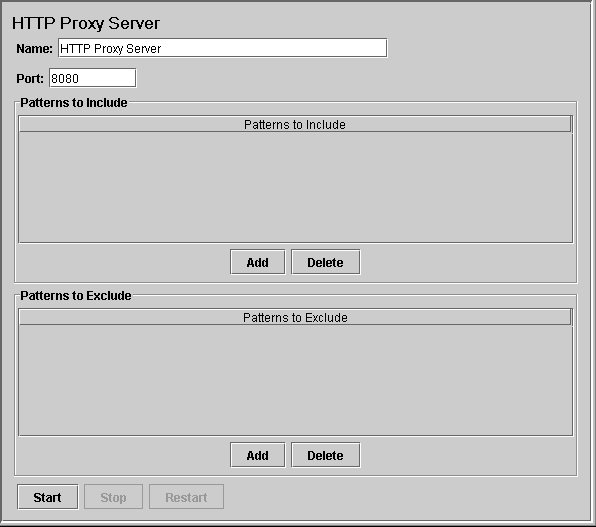
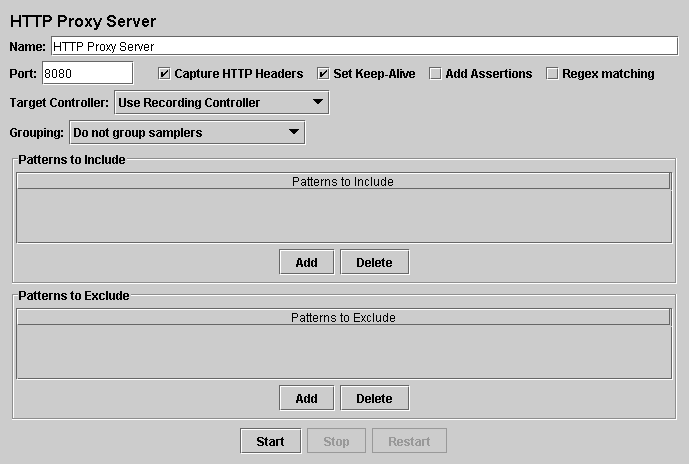
Bug 35026 - add RE pattern matching to Proxy; prevent replacement of TestElement.gui_class etc
git-svn-id: https://svn.apache.org/repos/asf/jakarta/jmeter/trunk@325404 13f79535-47bb-0310-9956-ffa450edef68

Changed region(s): [[0.0, 0.0, 1.0, 1.0]]

diff --git a/src/core/org/apache/jmeter/engine/util/ReplaceFunctionsWithStrings.java b/src/core/org/apache/jmeter/engine/util/ReplaceFunctionsWithStrings.java
@@ -1,6 +1,6 @@
 // $Header$
 /*
- * Copyright 2003-2004 The Apache Software Foundation.
+ * Copyright 2003-2005 The Apache Software Foundation.
  *
  * Licensed under the Apache License, Version 2.0 (the "License");
  * you may not use this file except in compliance with the License.
@@ -28,21 +28,46 @@ import org.apache.jmeter.functions.InvalidVariableException;
 import org.apache.jmeter.testelement.property.JMeterProperty;
 import org.apache.jmeter.testelement.property.StringProperty;
 import org.apache.jmeter.util.StringUtilities;
+import org.apache.jorphan.logging.LoggingManager;
+import org.apache.log.Logger;
+import org.apache.oro.text.regex.MalformedPatternException;
+import org.apache.oro.text.regex.Pattern;
+import org.apache.oro.text.regex.PatternCompiler;
+import org.apache.oro.text.regex.PatternMatcher;
+import org.apache.oro.text.regex.Perl5Compiler;
+import org.apache.oro.text.regex.Perl5Matcher;
+import org.apache.oro.text.regex.StringSubstitution;
+import org.apache.oro.text.regex.Util;
 
 /**
- * @author ano ano
+ * Transforms strings into variable references
+ * (in spite of the name, which suggests the opposite!)
+ * 
  * @version $Revision$
  */
 public class ReplaceFunctionsWithStrings extends AbstractTransformer
 {
+    private static final Logger log = LoggingManager.getLoggerForClass();
+    
+    private boolean regexMatch;// Should we match using regexes?
+    
     public ReplaceFunctionsWithStrings(
         CompoundVariable masterFunction,
         Map variables)
     {
-        super();
-        setMasterFunction(masterFunction);
-        setVariables(variables);
+        this(masterFunction,variables,false);
     }
+
+    public ReplaceFunctionsWithStrings(
+            CompoundVariable masterFunction,
+            Map variables,
+            boolean regexMatch)
+        {
+            super();
+            setMasterFunction(masterFunction);
+            setVariables(variables);
+            this.regexMatch=regexMatch;
+        }
 
     /* (non-Javadoc)
      * @see ValueTransformer#transformValue(JMeterProperty)
@@ -50,13 +75,30 @@ public class ReplaceFunctionsWithStrings extends AbstractTransformer
     public JMeterProperty transformValue(JMeterProperty prop)
         throws InvalidVariableException
     {
+        PatternMatcher pm = new Perl5Matcher();
+        Pattern pattern = null;
+        PatternCompiler compiler = new Perl5Compiler();
         Iterator iter = getVariables().keySet().iterator();
         String input = prop.getStringValue();
         while (iter.hasNext())
         {
             String key = (String) iter.next();
             String value = (String) getVariables().get(key);
-            input = StringUtilities.substitute(input, value, "${" + key + "}");
+            if (regexMatch) {
+                try {
+                    pattern = compiler.compile(value);
+                    input=Util.substitute(
+                            pm,
+                            pattern,
+                            new StringSubstitution("${"+key+"}"),
+                            input,
+                            Util.SUBSTITUTE_ALL);
+                } catch (MalformedPatternException e) {
+                    log.warn("Malformed pattern "+value);
+                }
+            } else {
+                input = StringUtilities.substitute(input, value, "${" + key + "}");                
+            }
         }
         StringProperty newProp =  new StringProperty(prop.getName(), input);
         return newProp;

diff --git a/src/protocol/http/org/apache/jmeter/protocol/http/proxy/gui/ProxyControlGui.java b/src/protocol/http/org/apache/jmeter/protocol/http/proxy/gui/ProxyControlGui.java
@@ -103,6 +103,11 @@ public class ProxyControlGui
 	 */
 	private JCheckBox useKeepAlive;
 
+    /*
+     * Use regexes to match the source data
+     */
+    private JCheckBox regexMatch;
+    
     /**
      * List of available target controllers
      */
@@ -169,6 +174,7 @@ public class ProxyControlGui
 			model.setGroupingMode(groupingMode.getSelectedIndex());
 			model.setAssertions(addAssertions.isSelected());
 			model.setUseKeepAlive(useKeepAlive.isSelected());
+            model.setRegexMatch(regexMatch.isSelected());
             TreeNodeWrapper nw= (TreeNodeWrapper)targetNodes.getSelectedItem();
             if (nw == null)
             {
@@ -219,13 +225,14 @@ public class ProxyControlGui
         log.debug("Configuring gui with " + element);
         super.configure(element);
         model = (ProxyControl)element;
-        portField.setText(model.getPropertyAsString(ProxyControl.PORT));
-		httpHeaders.setSelected(model.getPropertyAsBoolean(ProxyControl.CAPTURE_HTTP_HEADERS));
-		groupingMode.setSelectedIndex(model.getPropertyAsInt(ProxyControl.GROUPING_MODE));
-		addAssertions.setSelected(model.getPropertyAsBoolean(ProxyControl.ADD_ASSERTIONS));
-		useKeepAlive.setSelected(model.getPropertyAsBoolean(ProxyControl.USE_KEEPALIVE,true));
+        portField.setText(model.getPortString());
+		httpHeaders.setSelected(model.getCaptureHttpHeaders());
+		groupingMode.setSelectedIndex(model.getGroupingMode());
+		addAssertions.setSelected(model.getAssertions());
+		useKeepAlive.setSelected(model.getUseKeepalive());
+        regexMatch.setSelected(model.getRegexMatch());
         
-        reinitializeTargetCombo();
+        reinitializeTargetCombo();//TODO is this needed? What does it do?
 
         populateTable(includeModel, model.getIncludePatterns().iterator());
         populateTable(excludeModel, model.getExcludePatterns().iterator());
@@ -284,6 +291,7 @@ public class ProxyControlGui
 		        || command.equals(ProxyControl.ADD_ASSERTIONS)
                 || command.equals(ProxyControl.GROUPING_MODE)
                 || command.equals(ProxyControl.USE_KEEPALIVE)
+                || command.equals(ProxyControl.REGEX_MATCH)
                  )
         {
             enableRestart();
@@ -485,6 +493,12 @@ public class ProxyControlGui
 		useKeepAlive.addActionListener(this);
 		useKeepAlive.setActionCommand(ProxyControl.USE_KEEPALIVE);
 
+        regexMatch = new JCheckBox(JMeterUtils.getResString("proxy_regex"));
+        regexMatch.setName(ProxyControl.REGEX_MATCH);
+        regexMatch.setSelected(false);
+        regexMatch.addActionListener(this);
+        regexMatch.setActionCommand(ProxyControl.REGEX_MATCH);
+
         HorizontalPanel panel = new HorizontalPanel();
         panel.add(label);
         panel.add(portField);
@@ -494,6 +508,7 @@ public class ProxyControlGui
 
 		panel.add(useKeepAlive);
 		panel.add(addAssertions);
+        panel.add(regexMatch);
 
         return panel;
     }
@@ -720,9 +735,7 @@ public class ProxyControlGui
                     name.append(seperator);
                     buildNodesModel(cur, name.toString(), 0);
                 }
-                else {
-                	log.error("Cannot process "+te);
-                }
+                // Ignore everything else
             }
         }
     }

diff --git a/src/protocol/http/org/apache/jmeter/protocol/http/proxy/ProxyControl.java b/src/protocol/http/org/apache/jmeter/protocol/http/proxy/ProxyControl.java
@@ -88,6 +88,7 @@ public class ProxyControl extends GenericController implements Serializable
 	public static final String ADD_ASSERTIONS = "ProxyControlGui.add_assertion";
 	public static final String GROUPING_MODE = "ProxyControlGui.grouping_mode";
 	public static final String USE_KEEPALIVE  = "ProxyControlGui.use_keepalive";
+    public static final String REGEX_MATCH  = "ProxyControlGui.regex_match";
 
     public static final int GROUPING_NO_GROUPS = 0;
     public static final int GROUPING_ADD_SEPARATORS = 1;
@@ -100,6 +101,7 @@ public class ProxyControl extends GenericController implements Serializable
 	private boolean addAssertions;
 	private int groupingMode;
 	private boolean useKeepAlive;
+    private boolean regexMatch=false;// Should we match using regexes?
     
     /**
      * Tree node where the samples should be stored.
@@ -162,14 +164,36 @@ public class ProxyControl extends GenericController implements Serializable
         setProperty(new CollectionProperty(EXCLUDE_LIST, new HashSet(list)));
     }
 
+    /**
+     * @param b
+     */
+    public void setRegexMatch(boolean b)
+    {
+        regexMatch=b;
+        setProperty(new BooleanProperty(REGEX_MATCH,b));
+    }
+
     public String getClassLabel()
     {
         return JMeterUtils.getResString("proxy_title");
     }
 
+    public boolean getAssertions() {
+        return getPropertyAsBoolean(ADD_ASSERTIONS);
+    }
+
+    public int getGroupingMode() {
+        return getPropertyAsInt(GROUPING_MODE);
+    }
+
     public int getPort()
     {
         return getPropertyAsInt(PORT);
+    }
+
+    public String getPortString()
+    {
+        return getPropertyAsString(PORT);
     }
 
     public int getDefaultPort()
@@ -182,6 +206,16 @@ public class ProxyControl extends GenericController implements Serializable
         return getPropertyAsBoolean(CAPTURE_HTTP_HEADERS);
     }
 
+    public boolean getUseKeepalive()
+    {
+        return getPropertyAsBoolean(USE_KEEPALIVE,true);
+    }
+    
+    public boolean getRegexMatch()
+    {
+        return getPropertyAsBoolean(REGEX_MATCH,false);
+    }
+    
     public Class getGuiClass()
     {
         return org.apache.jmeter.protocol.http.proxy.gui.ProxyControlGui.class;
@@ -267,7 +301,7 @@ public class ProxyControl extends GenericController implements Serializable
             replaceValues(sampler, subConfigs, userDefinedVariables);
             sampler.setUseKeepAlive(useKeepAlive);
             sampler.setProperty(
-                TestElement.GUI_CLASS,
+                TestElement.GUI_CLASS, //TODO - allow for HttpClient sampler ...
                 "org.apache.jmeter.protocol.http.control.gui.HttpTestSampleGui");
 
             placeSampler(sampler, subConfigs, myTarget);
@@ -746,12 +780,12 @@ public class ProxyControl extends GenericController implements Serializable
         
         try
         {
-            replacer.reverseReplace(sampler);
+            replacer.reverseReplace(sampler,regexMatch);
             for (int i = 0; i < configs.length; i++)
             {
                 if (configs[i] != null)
                 {
-                    replacer.reverseReplace(configs[i]);
+                    replacer.reverseReplace(configs[i],regexMatch);
                 }
 
             }

diff --git a/src/core/org/apache/jmeter/engine/util/ValueReplacer.java b/src/core/org/apache/jmeter/engine/util/ValueReplacer.java
@@ -95,6 +95,15 @@ public class ValueReplacer
         setProperties(el, newProps);
     }
         
+    public void reverseReplace(TestElement el, boolean regexMatch) throws InvalidVariableException
+    {
+        Collection newProps =
+            replaceValues(
+                el.propertyIterator(),
+                new ReplaceFunctionsWithStrings(masterFunction, variables, regexMatch));
+        setProperties(el, newProps);
+    }
+        
     public void undoReverseReplace(TestElement el)
         throws InvalidVariableException
     {
@@ -131,15 +140,19 @@ public class ValueReplacer
             JMeterProperty val = iter.next();
             if (log.isDebugEnabled())
             {
-                log.debug("About to replace in property of tipe: "
+                log.debug("About to replace in property of type: "
                   +val.getClass()+": "+val);
             }
             if (val instanceof StringProperty)
             {
-                val = transform.transformValue(val);
-                if (log.isDebugEnabled())
-                {
-                    log.debug("Replacement result: " +val);
+                // Must not convert TestElement.gui_class etc
+                // TODO but perhaps we want to convert TestElement.name ?
+                if (!val.getName().startsWith("TestElement.")) {
+                    val = transform.transformValue(val);
+                    if (log.isDebugEnabled())
+                    {
+                        log.debug("Replacement result: " +val);
+                    }
                 }
             }
             else if (val instanceof MultiProperty)
@@ -161,7 +174,7 @@ public class ValueReplacer
             else {
                 if (log.isDebugEnabled())
                 {
-                    log.debug("Won't replace.");
+                    log.debug("Won't replace "+val);
                 }
             }
             props.add(val);
